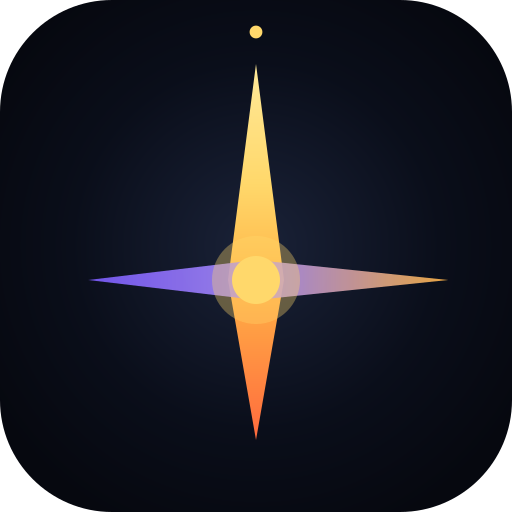
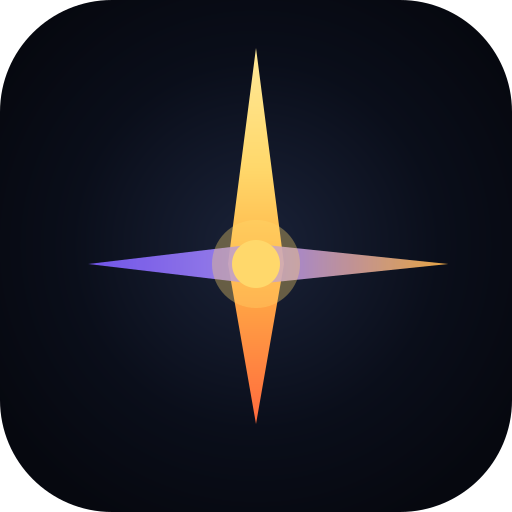
V3.3

Changed region(s): [[0.1875, 0.3438, 0.875, 0.8438], [0.4688, 0.125, 0.5312, 0.3438], [0.4688, 0.0312, 0.5312, 0.0938]]

diff --git a/app.js b/app.js
@@ -1583,22 +1583,26 @@ function renderSport(root) {
 function renderMapInto(mapEl, activity) {
   if (!activity || !window.L || !mapEl) return null;
   const map = L.map(mapEl, { zoomControl: true, attributionControl: true }).setView([46.5, 2.5], 6);
-  // Wikimedia Maps : tile vectoriel rendu, palette nuit naturelle (bleu nuit /
-  // beige crème / cyan eau), pas de filtres CSS destructifs nécessaires.
-  // CC BY-SA 3.0 · OSM contributors · Wikimedia Foundation.
-  L.tileLayer('https://maps.wikimedia.org/osm-intl/{z}/{x}/{y}{r}.png', {
-    attribution: '© OSM · Wikimedia',
-    maxZoom: 18
+  // CartoDB Voyager : palette claire (beige terre, bleu pâle eau, blanc routes),
+  // CDN fiable, aucune clé requise. Couleurs natives belles, on n'applique
+  // aucun filtre CSS — c'est le tracé orange/doré qui apporte la touche Orion.
+  L.tileLayer('https://{s}.basemaps.cartocdn.com/rastertiles/voyager/{z}/{x}/{y}{r}.png', {
+    attribution: '© OSM · CartoDB',
+    subdomains: 'abcd',
+    maxZoom: 19,
+    crossOrigin: true
   }).addTo(map);
   const latlngs = activity.points.map(p => [p.lat, p.lon]);
-  // Tracé : halo doré + ligne ambre éclatante. Bordure foncée subtile pour
-  // découper proprement le tracé du fond plus clair de cette tile.
-  L.polyline(latlngs, { color: '#0a0e1a', weight: 7, opacity: 0.5, lineJoin: 'round', lineCap: 'round' }).addTo(map);
-  L.polyline(latlngs, { color: '#ffd86b', weight: 11, opacity: 0.20, lineJoin: 'round', lineCap: 'round' }).addTo(map);
+  // Tracé multi-couches pour éclat sur fond clair :
+  // 1. Bordure foncée fine pour découper le tracé du fond beige
+  // 2. Halo doré généreux pour le glow
+  // 3. Ligne principale orange chaude (signature course)
+  L.polyline(latlngs, { color: '#0a0e1a', weight: 8, opacity: 0.35, lineJoin: 'round', lineCap: 'round' }).addTo(map);
+  L.polyline(latlngs, { color: '#ffd86b', weight: 12, opacity: 0.30, lineJoin: 'round', lineCap: 'round' }).addTo(map);
   const track = L.polyline(latlngs, { color: '#ff6a3d', weight: 4, opacity: 1, lineJoin: 'round', lineCap: 'round' }).addTo(map);
   if (latlngs.length > 0) {
-    L.circleMarker(latlngs[0], { radius: 7, color: '#ffd86b', weight: 2.5, fillColor: '#0a0e1a', fillOpacity: 1 }).addTo(map);
-    L.circleMarker(latlngs[latlngs.length - 1], { radius: 7, color: '#7c5cff', weight: 2.5, fillColor: '#0a0e1a', fillOpacity: 1 }).addTo(map);
+    L.circleMarker(latlngs[0], { radius: 8, color: '#ffd86b', weight: 3, fillColor: '#ff6a3d', fillOpacity: 1 }).addTo(map);
+    L.circleMarker(latlngs[latlngs.length - 1], { radius: 8, color: '#7c5cff', weight: 3, fillColor: '#0a0e1a', fillOpacity: 1 }).addTo(map);
   }
   map.fitBounds(track.getBounds(), { padding: [20, 20] });
   setTimeout(() => map.invalidateSize(), 100);

diff --git a/style.css b/style.css
@@ -1023,10 +1023,11 @@ h3 { font-size: 1.05rem; }
   overflow: hidden;
   border: 1px solid var(--border);
 }
-.map { height: 280px; width: 100%; background: #1c2440; }
-.leaflet-container { background: #1c2440; font-family: var(--font); }
-/* Pas de filtre sur les tiles : on laisse les couleurs natives Wikimedia
-   (bleu nuit / beige crème / cyan eau) intactes — elles sont déjà belles. */
+.map { height: 280px; width: 100%; background: #f5ebd9; }
+.leaflet-container { background: #f5ebd9; font-family: var(--font); }
+/* Tiles CartoDB Voyager : couleurs natives belles (beige terre, cyan eau,
+   blanc routes), aucun filtre. C'est le tracé orange/doré qui apporte la
+   touche Orion par contraste sur ce fond clair. */
 .leaflet-control-attribution {
   background: rgba(10,14,26,0.78) !important;
   color: var(--text-mute) !important;
@@ -1036,9 +1037,9 @@ h3 { font-size: 1.05rem; }
 }
 .leaflet-control-attribution a { color: var(--text-dim) !important; }
 .leaflet-control-zoom a {
-  background: rgba(17,23,42,0.85) !important;
+  background: rgba(10,14,26,0.85) !important;
   color: var(--text) !important;
-  border: 1px solid var(--border) !important;
+  border: 1px solid var(--border-strong) !important;
 }
 .leaflet-control-zoom a:hover { background: var(--bg-3) !important; color: var(--accent) !important; }
 .metrics {

diff --git a/sw.js b/sw.js
@@ -4,7 +4,7 @@
 // et se met à jour automatiquement dès qu'une nouvelle version est déployée.
 // ============================================================================
 
-const VERSION = 'orion-v14';
+const VERSION = 'orion-v15';
 const ASSETS = [
   './',
   './index.html',